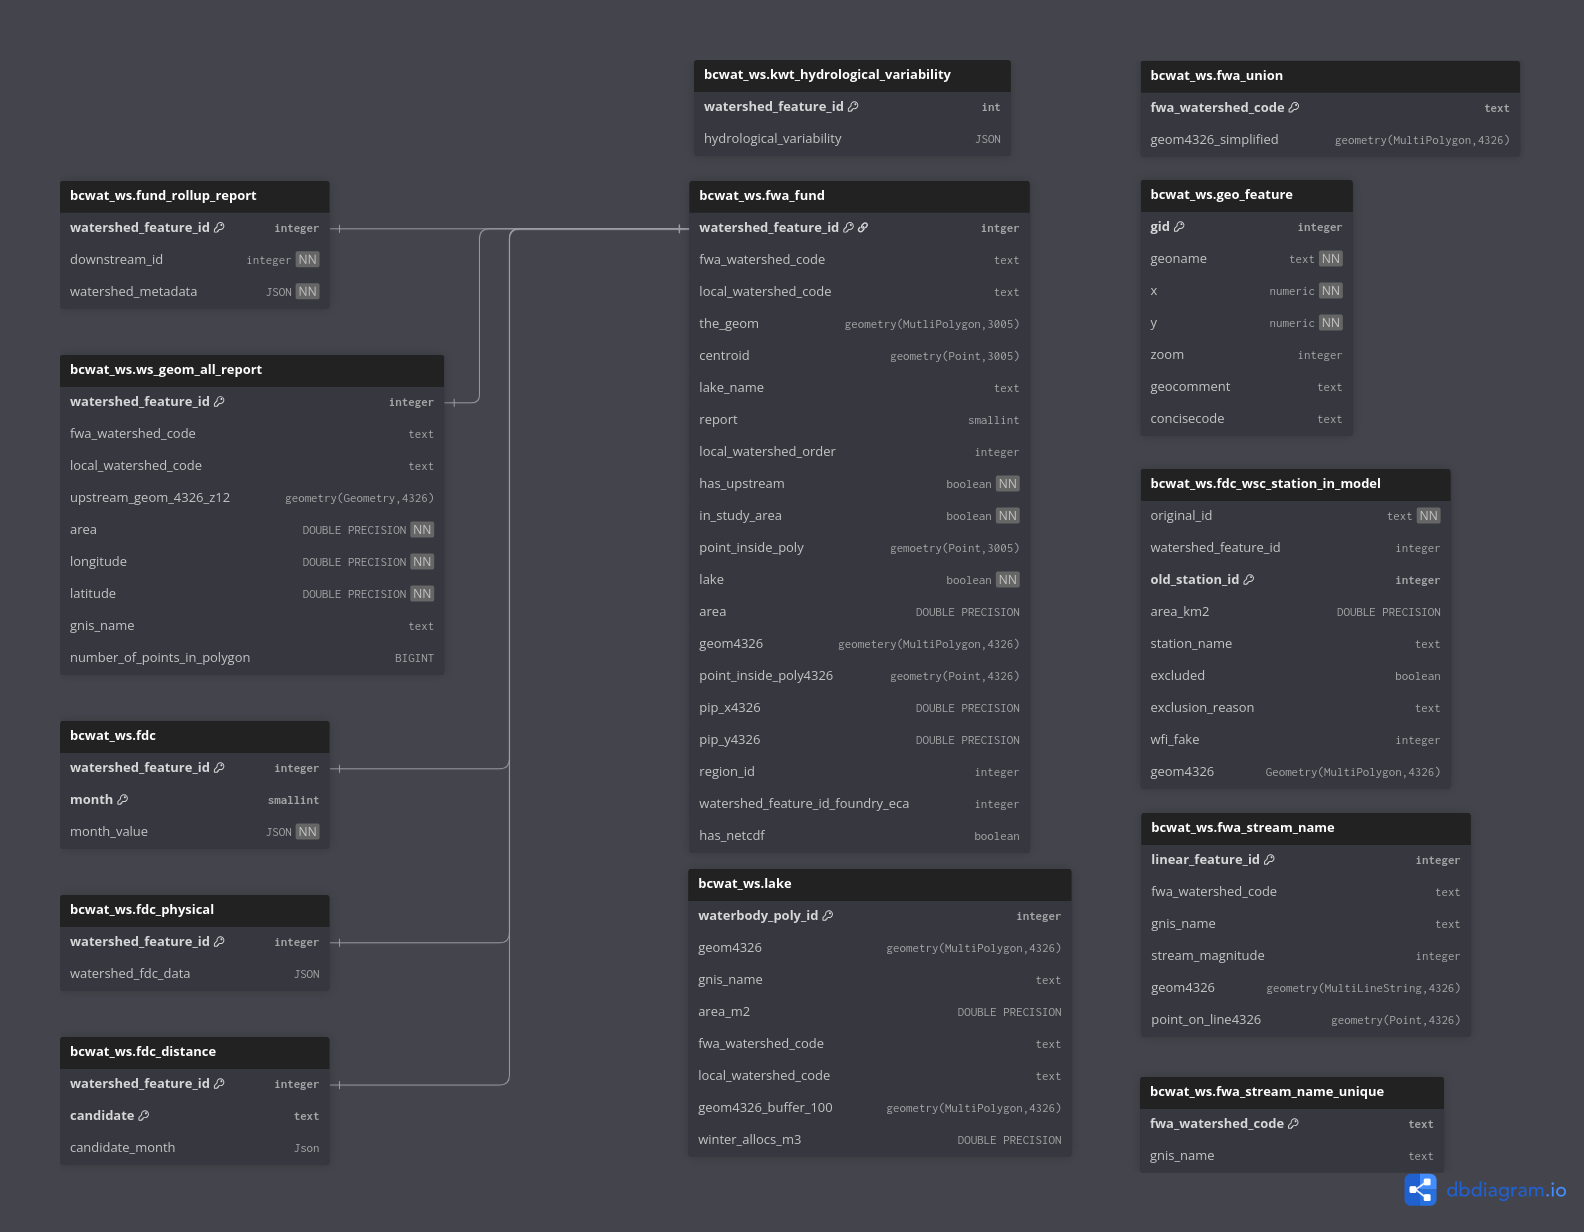
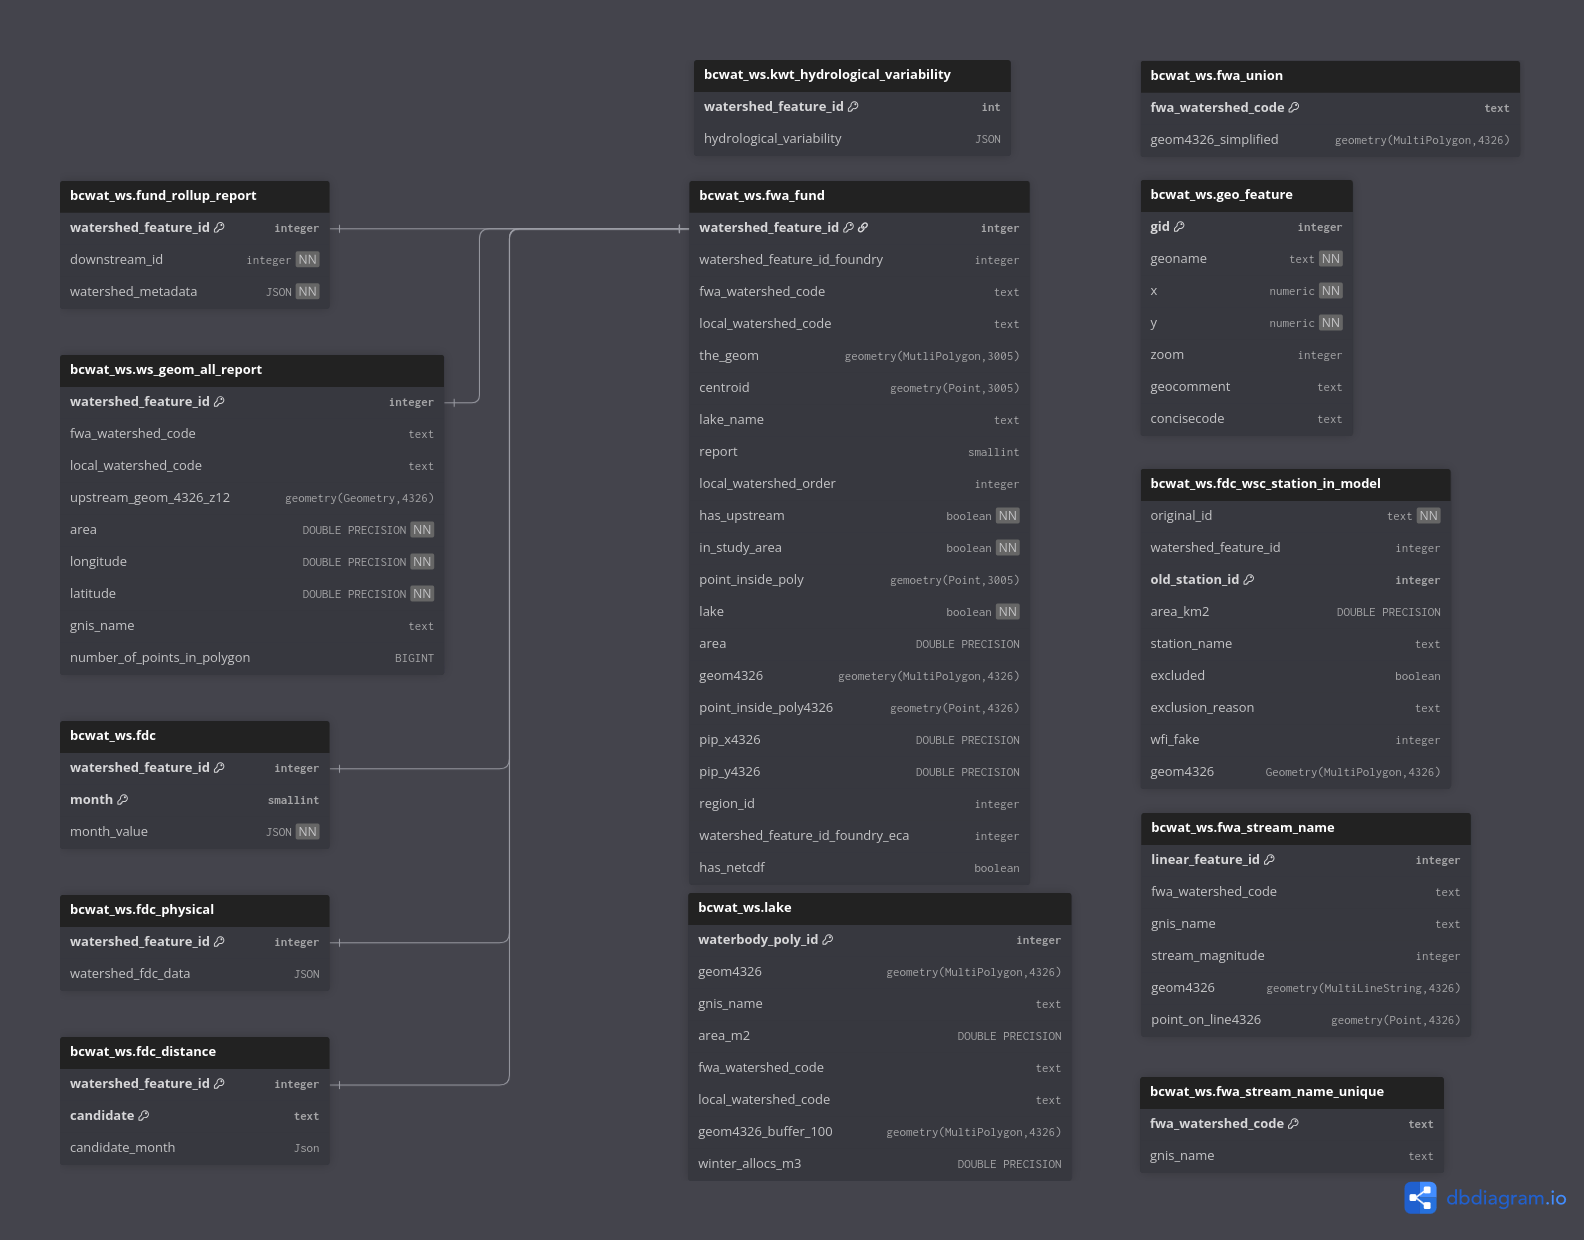
added lake shift

diff --git a/database_initialization/queries/bcwat_watershed_data.py b/database_initialization/queries/bcwat_watershed_data.py
@@ -21,6 +21,7 @@ fwa_fund_query = '''
 WITH unioned AS (
         (SELECT
             watershed_feature_id,
+            watershed_feature_id_foundry,
             fwa_watershed_code,
             local_watershed_code,
             ST_AsGeoJSON(the_geom) AS the_geom,
@@ -41,6 +42,7 @@ WITH unioned AS (
         UNION
         (SELECT
             watershed_feature_id,
+            watershed_feature_id_foundry,
             fwa_watershed_code,
             local_watershed_code,
             ST_AsGeoJSON(the_geom) AS the_geom,
@@ -61,6 +63,7 @@ WITH unioned AS (
         UNION
         (SELECT
             watershed_feature_id,
+            watershed_feature_id_foundry,
             fwa_watershed_code,
             local_watershed_code,
             ST_AsGeoJSON(the_geom) AS the_geom,
@@ -81,6 +84,7 @@ WITH unioned AS (
         UNION
         (SELECT
             watershed_feature_id,
+            watershed_feature_id_foundry,
             fwa_watershed_code,
             local_watershed_code,
             ST_AsGeoJSON(the_geom) AS the_geom,

diff --git a/database_initialization/queries/bcwat_watershed_erd_diagram.py b/database_initialization/queries/bcwat_watershed_erd_diagram.py
@@ -6,6 +6,7 @@ bcwat_ws_query = '''
 
     CREATE TABLE IF NOT EXISTS "bcwat_ws"."fwa_fund" (
     "watershed_feature_id" integer PRIMARY KEY,
+    "watershed_feature_id_foundry" integer,
     "fwa_watershed_code" text,
     "local_watershed_code" text,
     "the_geom" geometry(MultiPolygon, 3005),

diff --git a/database_initialization/table_data_types.py b/database_initialization/table_data_types.py
@@ -389,6 +389,7 @@ lake_licence_dtype = {
 
 fwa_fund_dtype = {
     "watershed_feature_id": pl.Int128,
+    "watershed_feature_id_foundry": pl.Int128,
     "fwa_watershed_code": pl.String,
     "local_watershed_code": pl.String,
     "the_geom": pl.String,
